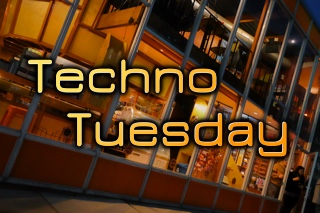
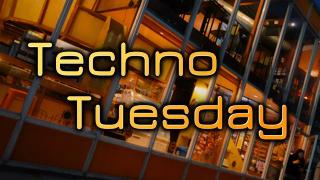
wip

diff --git a/styles/styles.css b/styles/styles.css
@@ -11,14 +11,14 @@ header { border-bottom: 3px solid #f63; background: transparent;
 .logo { font-family: desmonanz; padding: 32px 0 0 24px; font-size: 32px; float: left; }
 .logo a,.logo a:visited { color: #f63; text-decoration: none; display: block; }
 .logo span { text-transform: lowercase; color: #f63; }
-nav ul { padding: 0; margin: 0px 0 0 12px; float: left; }
-nav ul li { display: inline-block; float: left; list-style: none; padding: 0 0 0 5px; }
-nav a { color: #f63; text-decoration: none; font-weight: 700; display: block;
+nav.main ul { padding: 0; margin: 0px 0 0 12px; float: left; }
+nav.main ul li { display: inline-block; float: left; list-style: none; padding: 0 0 0 5px; }
+nav.main a { color: #f63; text-decoration: none; font-weight: 700; display: block;
   padding: 12px 5px 5px 5px; }
-nav a:visited { color: #f63; }
-nav a.active { background-color: black; }
-nav a:hover { background-color: black; }
-nav a.active, nav a:hover { background-color: black; color: #f96; }
+nav.main a:visited { color: #f63; }
+nav.main a.active { background-color: black; }
+nav.main a:hover { background-color: black; }
+nav.main a.active, nav.main a:hover { background-color: black; color: #f96; }
 .hero { /* background-size: cover; */ background-position: center center;
   clear: both; height: 50vh;
   border-bottom: 3px solid #f63;
@@ -85,21 +85,40 @@ ul.shows li { list-style-type: none; float: left; margin: 0.5em; }
 ul.shows a { display: block; width: 332px; padding: 6px;
   background-color: #111; }
 ul.shows a:hover { border-color: #f63; background-color: #181818; }
-ul.shows .btnimg { width: 320px; height: 212px; }
+ul.shows .btnimg { width: 320px; height: 180px; }
 ul.shows .btnimg-techno-tuesday {
   background-image: url(../images/showbtns/techno-tuesday.jpg); }
 ul.shows .btnimg div { height: 100%; background: rgba(0,0,0,0.3); }
 ul.shows a:hover .btnimg div { background: transparent; }
 ul.shows a { color: #ccc; text-decoration: none; }
-ul.shows .showinfo { padding: 8px; margin-top: 4px; }
-ul.shows .showinfo h3 { margin: 0; }
-ul.shows .showinfo p { margin-bottom: 0; }
+ul.shows .showinfo { padding: 8px; }
+ul.shows .showinfo p { margin: 0; }
 ul.shows a:hover .showinfo { color: white; }
+
+section.show { clear: both; }
+section.show div.page { clear: both; padding: 0.5em 1em; }
+section.show h2 { margin: 0.5em; margin-bottom: 0; font-size: xx-large; }
+
+nav.show ul { margin: 0 0 0.5em 0.5em; padding: 0; }
+nav.show ul li { display: inline-block; float: left; list-style: none; padding: 0 0 0 5px; }
+nav.show a { color: #f63; text-decoration: none; display: block;
+  padding: 2em 1em 0.5em 1em; }
+nav.show a:visited { color: #f63; }
+nav.show a.active, nav.main a:hover { color: #f96; background-color: rgba(0,0,0,0.5); }
+
+.showhero { background-size: cover; background-position: center center;
+  clear: both; height: 30vh;
+  border-bottom: 3px solid #f63; }
+.show-techno-tuesday {
+  background-image: url(../images/showheros/techno-tuesday.jpeg); }
+.showhero-overlay { height: 100%; }
+.showhero-info { max-width: 18em; float: right; padding: 0.7em; font-size: x-large;
+  margin-top: 1em; background: rgba(0,0,0,0.4); color: #eee; }
 
 footer { clear: both; margin-top: 4em; padding: 20px 40px;
     border-top: 2px solid #333;
-    background: rgba(0, 0, 0, .50); }
-footer .bit { float: left; }
+    background: rgba(0,0,0,0.5); }
+/* footer .bit { float: left; } */
 footer .lg { width: 40%; }
 footer .lg .bit p { }
 footer .sm { width: 30%; }
@@ -117,6 +136,6 @@ footer .sm .bit p { margin: 0; }
 }
 
 @media (min-width: 458px) {
-  nav a { padding-top: 45px; }
+  nav.main a { padding-top: 45px; }
   .logo { padding-bottom: 12px; }
 }

diff --git a/src/state.js b/src/state.js
@@ -14,8 +14,10 @@ export class State {
     this.shows     = [];
 
     [this.socket, this.site, this.lobby, this.stat] = this.startSocket();
+  }
 
-    this.getShows();
+  initialize(cb) {
+    this.getShows(cb);
   }
 
   pushEvent(ev, msg) {
@@ -110,11 +112,39 @@ export class State {
 
   }
 
-  getShows() {
+  getShows(cb) {
     this.push(this.site, "shows", {}, (data) => {
       this.shows = data.shows;
-      console.log("data", data);
+      cb();
     }.bind(this));
+  }
+
+  getShow(slug, cb) {
+    var info = this.showAndIdxBySlug(slug),
+        idx  = info["idx"],
+        show = this.shows[idx];
+
+    if (show.is_expanded) {
+      cb(show);
+    } else {
+      this.push(this.site, "show", {slug: slug}, (response) => {
+        var fullShow = response.show;
+        console.log('fullshow', fullShow);
+        fullShow.is_expanded = true;
+        this.shows.splice(idx, 1, fullShow);
+        cb(fullShow);
+      }.bind(this));
+    }
+  }
+
+  showAndIdxBySlug(slug) {
+    console.log('SHOWS', this.shows);
+    for (var i=0; i<this.shows.length; i++) {
+      if (this.shows[i].slug == slug) {
+        return {show: this.shows[i], idx: i};
+      }
+    }
+    return null;
   }
 
   setupStamps(msg) {

diff --git a/src/show.js b/src/show.js
@@ -5,6 +5,7 @@ import {inject} from "aurelia-framework";
 export class Show {
   constructor(state) {
     this.state = state;
+    this.slug  = null;
   }
 
   configureRouter(config, router) {
@@ -12,14 +13,43 @@ export class Show {
 
     config.map([
       { route:    ["", "/"],
+        name:     "home",
+        title:    "Home",
+        moduleId: "./show/home",
+        nav:      true
+      },
+      { route:    "/podcast",
         name:     "podcast",
-        moduleId: "./show/podcast"
+        title:    "Podcast",
+        moduleId: "./show/podcast",
+        nav:      true
+      },
+      { route:    "/schedule",
+        name:     "schedule",
+        title:    "Schedule",
+        moduleId: "./show/schedule",
+        nav:      true
       },
       { route:    "/info",
         name:     "info",
+        title:    "Info",
         moduleId: "./show/info",
+        nav:      true
       }
     ]);
+  }
+
+  activate(params) {
+    var state = this.state;
+
+    this.slug = params.slug;
+
+    return new Promise((accept, reject) => {
+      state.getShow(this.slug, (show) => {
+        this.show = show;
+        accept();
+      }.bind(this));
+    }.bind(this));
   }
 
 }

diff --git a/src/show.html b/src/show.html
@@ -1,11 +1,23 @@
 <template>
-  <ul>
-    <li repeat.for="row of router.navigation">
-      <a data-toggle="collapse"
-        class="${row.isActive ? 'active' : ''}"
-        data-target="#skeleton-navigation-navbar-collapse.in"
-        href.bind="row.href">${row.title}</a>
-    </li>
-  </ul>
-  <router-view></router-view>
+  <section class="showhero show-${slug}">
+    <div class="showhero-overlay">
+      <!-- <div class="showhero&#45;info"></div> -->
+    </div>
+  </section>
+  <section class="show">
+    <h2>${show.name}</h2>
+    <nav class="show">
+      <ul>
+        <li repeat.for="row of router.navigation">
+          <a data-toggle="collapse"
+            class="${row.isActive ? 'active' : ''}"
+            data-target="#skeleton-navigation-navbar-collapse.in"
+            href.bind="row.href">${row.title}</a>
+        </li>
+      </ul>
+    </nav>
+    <div class="page">
+      <router-view></router-view>
+    </div>
+  </section>
 </template>

diff --git a/src/app.html b/src/app.html
@@ -3,7 +3,7 @@
     <h1 class="logo">
       <a href="/"><span>Impulse</span> Detroit</a>
     </h1>
-    <nav>
+    <nav class="main">
       <ul>
         <li repeat.for="row of router.navigation">
           <a data-toggle="collapse"
@@ -63,7 +63,7 @@
     <div class="right bit sm">
       <p>Special thanks to</p>
       <ul>
-        <li><a href="https://twitter.com/urbanbeanco">Urban Bean Co.</a></li>
+        <li><a href="http://www.urbanbeanco.com/">Urban Bean Co.</a></li>
         <li><a href="https://rocketfiber.com/">Rocket Fiber</a></li>
       </ul>
     </div>

diff --git a/src/app.js b/src/app.js
@@ -51,4 +51,13 @@ export class App {
     //   {id: "section-info",     label: "Info"}
     // ];
   }
+
+  activate() {
+    console.log('WHEAETDAETDEA,');
+    return new Promise((accept, reject) => {
+      this.state.initialize(() => {
+        accept();
+      });
+    }.bind(this));
+  }
 }

diff --git a/src/shows/list.html b/src/shows/list.html
@@ -9,8 +9,7 @@
               <div>&nbsp;</div>
             </div>
             <div class="showinfo">
-              <h3>${show.name}</h3>
-              <p>Stuff things</p>
+              <p>${show.tiny_info}</p>
             </div>
           </a>
         </li>

diff --git a/src/show/schedule.js b/src/show/schedule.js
@@ -2,7 +2,7 @@ import {State} from "../state";
 import {inject} from "aurelia-framework";
 
 @inject(State)
-export class Podcast {
+export class Schedule {
   constructor(state) {
     this.state = state;
   }

diff --git a/src/show/home.js b/src/show/home.js
@@ -2,7 +2,7 @@ import {State} from "../state";
 import {inject} from "aurelia-framework";
 
 @inject(State)
-export class Podcast {
+export class Home {
   constructor(state) {
     this.state = state;
   }

diff --git a/src/show/info.js b/src/show/info.js
@@ -2,7 +2,7 @@ import {State} from "../state";
 import {inject} from "aurelia-framework";
 
 @inject(State)
-export class Podcast {
+export class Info {
   constructor(state) {
     this.state = state;
   }

diff --git a/src/show/home.html b/src/show/home.html
@@ -1,0 +1,3 @@
+<template>
+  <p>${show.short_info}</p>
+</template>
